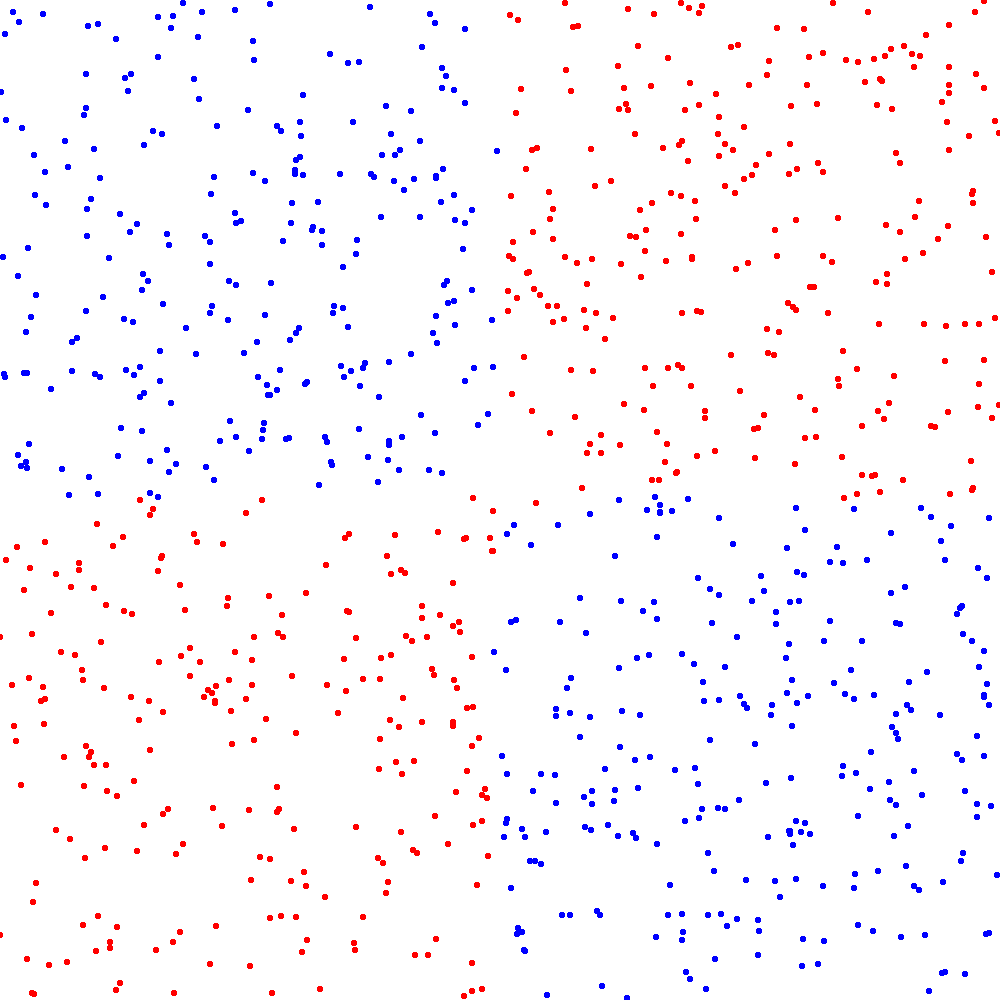
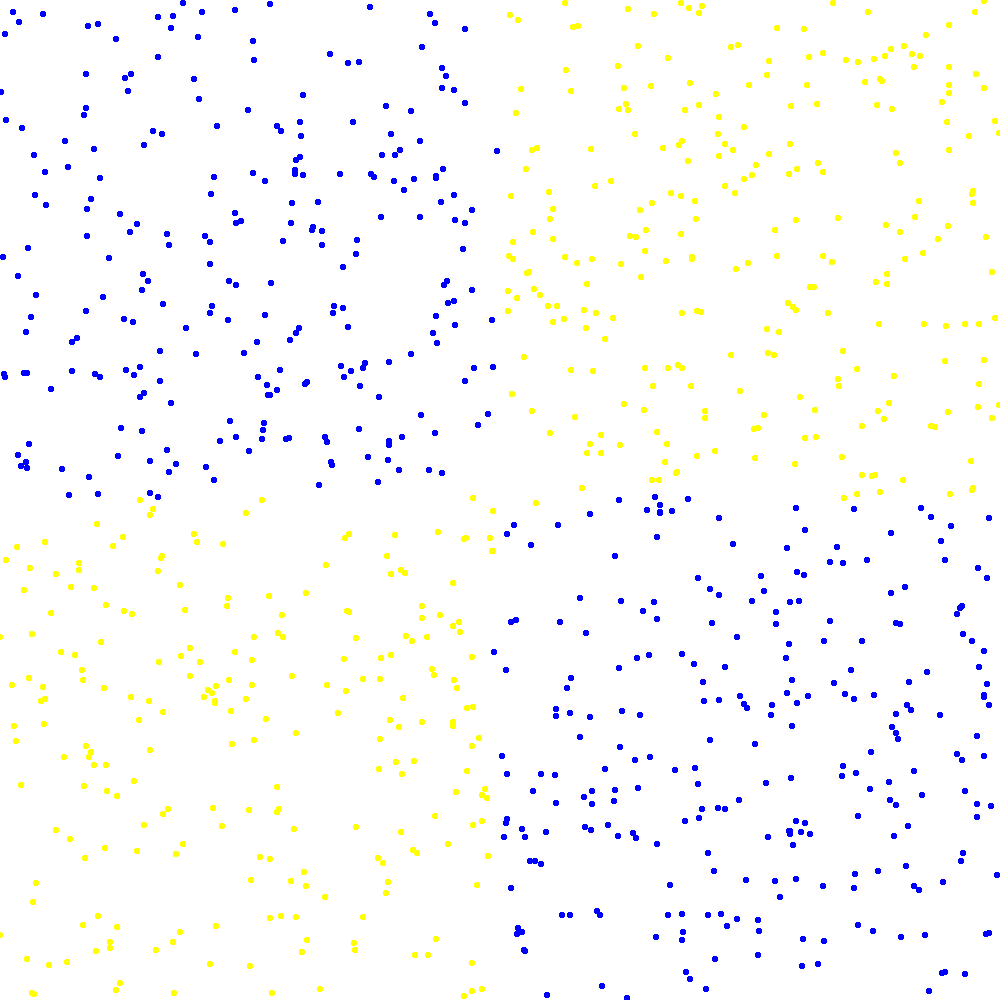
misc

diff --git a/ClassificationApp/Program.cs b/ClassificationApp/Program.cs
@@ -86,12 +86,12 @@ namespace ClassificationApp
 						Y[0, n] = 1;
 				}
 			}
-
 			return (X.AsMatrix(), Y.AsMatrix());
 		}
 
 		static void DrawData(ChiruMatrix X, ChiruMatrix Y, SKCanvas canvas)
 		{
+			canvas.Clear(new SKColor(255, 255, 255));
 			SKPaint paintA = new SKPaint
 			{
 				Color = new SKColor(255, 0, 0)
@@ -104,12 +104,12 @@ namespace ClassificationApp
 				double x = X[0,i] * SIZE, y = X[1,i] * SIZE;
 				if(Y[0,i] >= .5)
 				{
-					paintA.Color = new SKColor((byte)(255 * ((Y[0,i] + 1)/2)), 0, 0);
+					paintA.Color = new SKColor(255, (byte)(255 * ((Y[0, i] - .5) * 2)), 0);
 					canvas.DrawCircle((int)x, (int)y, 3, paintA);
 				}
 				else
 				{
-					paintA.Color = new SKColor(0, 0, (byte)(255 * ((Y[0, i] + 1) / 2)));
+					paintA.Color = new SKColor(255, 0, (byte)(255 * ((Y[0, i] + .5) * 2)));
 					canvas.DrawCircle((int)x, (int)y, 3, paintB);
 				}
 			}

diff --git a/ChiruApp/MainWindow.xaml.cs b/ChiruApp/MainWindow.xaml.cs
@@ -172,7 +172,7 @@ namespace ChiruApp
 					case 2:
 						return ActivationFunction.Sigmoid;
 					default:
-						return ActivationFunction.TanH;
+						return ActivationFunction.Sigmoid;
 				}
 			};
 			act[0] = getFunc(inputActivation.SelectedIndex);
